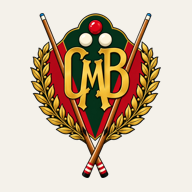
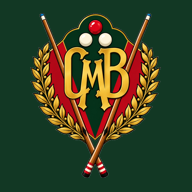
App: una sola pantalla d'inici verda (manifest i icones amb el mateix fons)
Claude-Session: https://claude.ai/code/session_014kZDTM85VJReKnidQjoEZZ

diff --git a/index.html b/index.html
@@ -3,11 +3,12 @@
 <head>
 <meta charset="utf-8">
 <meta name="viewport" content="width=device-width,initial-scale=1">
-<meta name="theme-color" content="#1f6b3a">
+<meta name="theme-color" content="#123824">
 <title>CB Monforte</title>
 <link rel="manifest" href="manifest.json">
+<link rel="preload" as="image" href="logo-app.png">
 <link rel="icon" href="icon.png">
-<link rel="apple-touch-icon" href="icon.png">
+<link rel="apple-touch-icon" href="apple-touch-icon.png">
 <meta name="apple-mobile-web-app-capable" content="yes">
 <style>
 :root{--bg:#f4f1ea;--card:#fff;--ink:#1c1c1a;--muted:#6b6a64;--felt:#1f6b3a;--felt2:#174f2b;--up:#15803d;--down:#b91c1c;--line:#e3dfd4;--chip:#eef3ee;--mon:#fdf6e3;--pend:#b45309}
@@ -64,8 +65,8 @@ input[type=search]{font:inherit;padding:9px;border:1px solid var(--line);border-
 .note{background:var(--mon);border-radius:10px;padding:10px 12px;font-size:13px;margin-bottom:12px}
 svg text{fill:var(--muted);font-size:10px}
 #splash{position:fixed;inset:0;z-index:50;display:flex;flex-direction:column;align-items:center;justify-content:center;gap:22px;
-  background:radial-gradient(900px 600px at 50% 0%,#1f6b3a,#0c2116);transition:opacity .6s ease}
-#splash img{width:min(62vw,300px);height:auto;filter:drop-shadow(0 10px 24px rgba(0,0,0,.45));animation:entra .9s ease-out both}
+  background:#123824;transition:opacity .6s ease}
+#splash img{width:min(62vw,300px);height:auto;filter:drop-shadow(0 10px 24px rgba(0,0,0,.45))}
 #splash .nom{color:#f3f1ea;text-align:center;animation:entra .9s .25s ease-out both}
 #splash .nom small{display:block;font-size:15px;letter-spacing:6px;color:#e3c46b;font-weight:700}
 #splash .nom b{display:block;font-size:34px;letter-spacing:2px;margin-top:4px}
